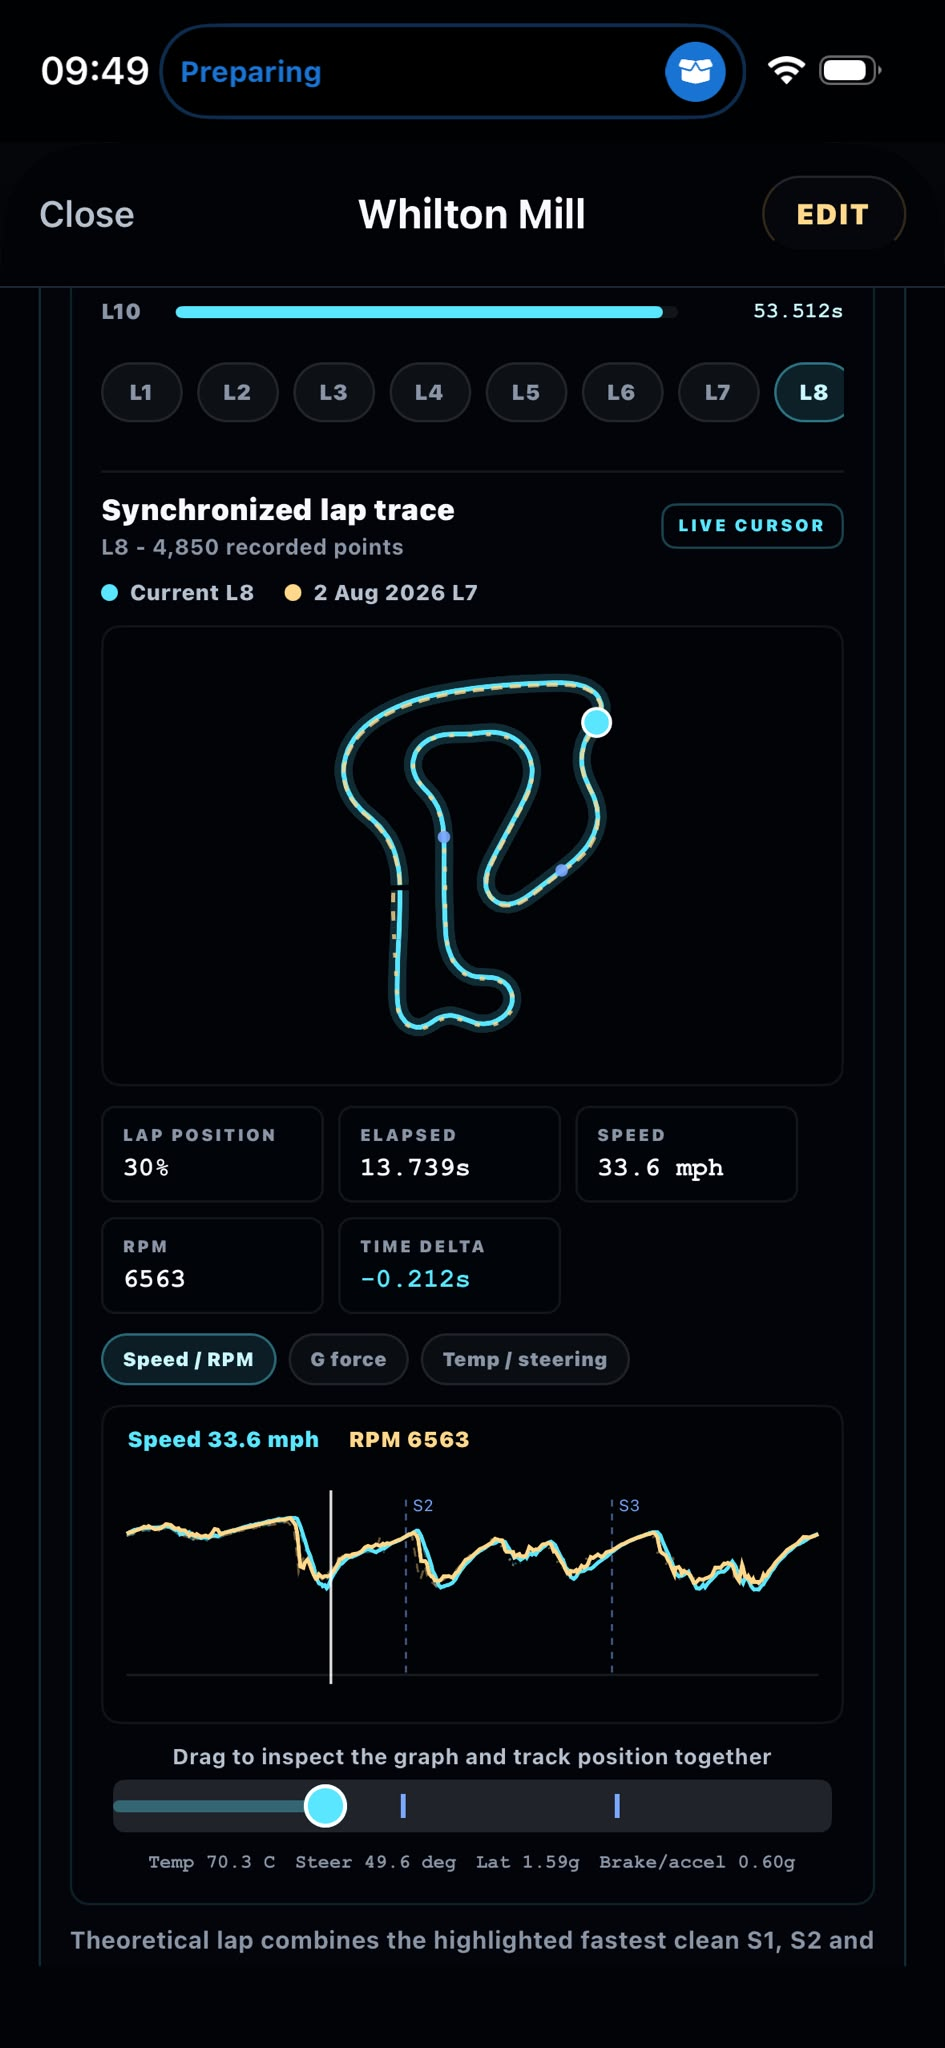
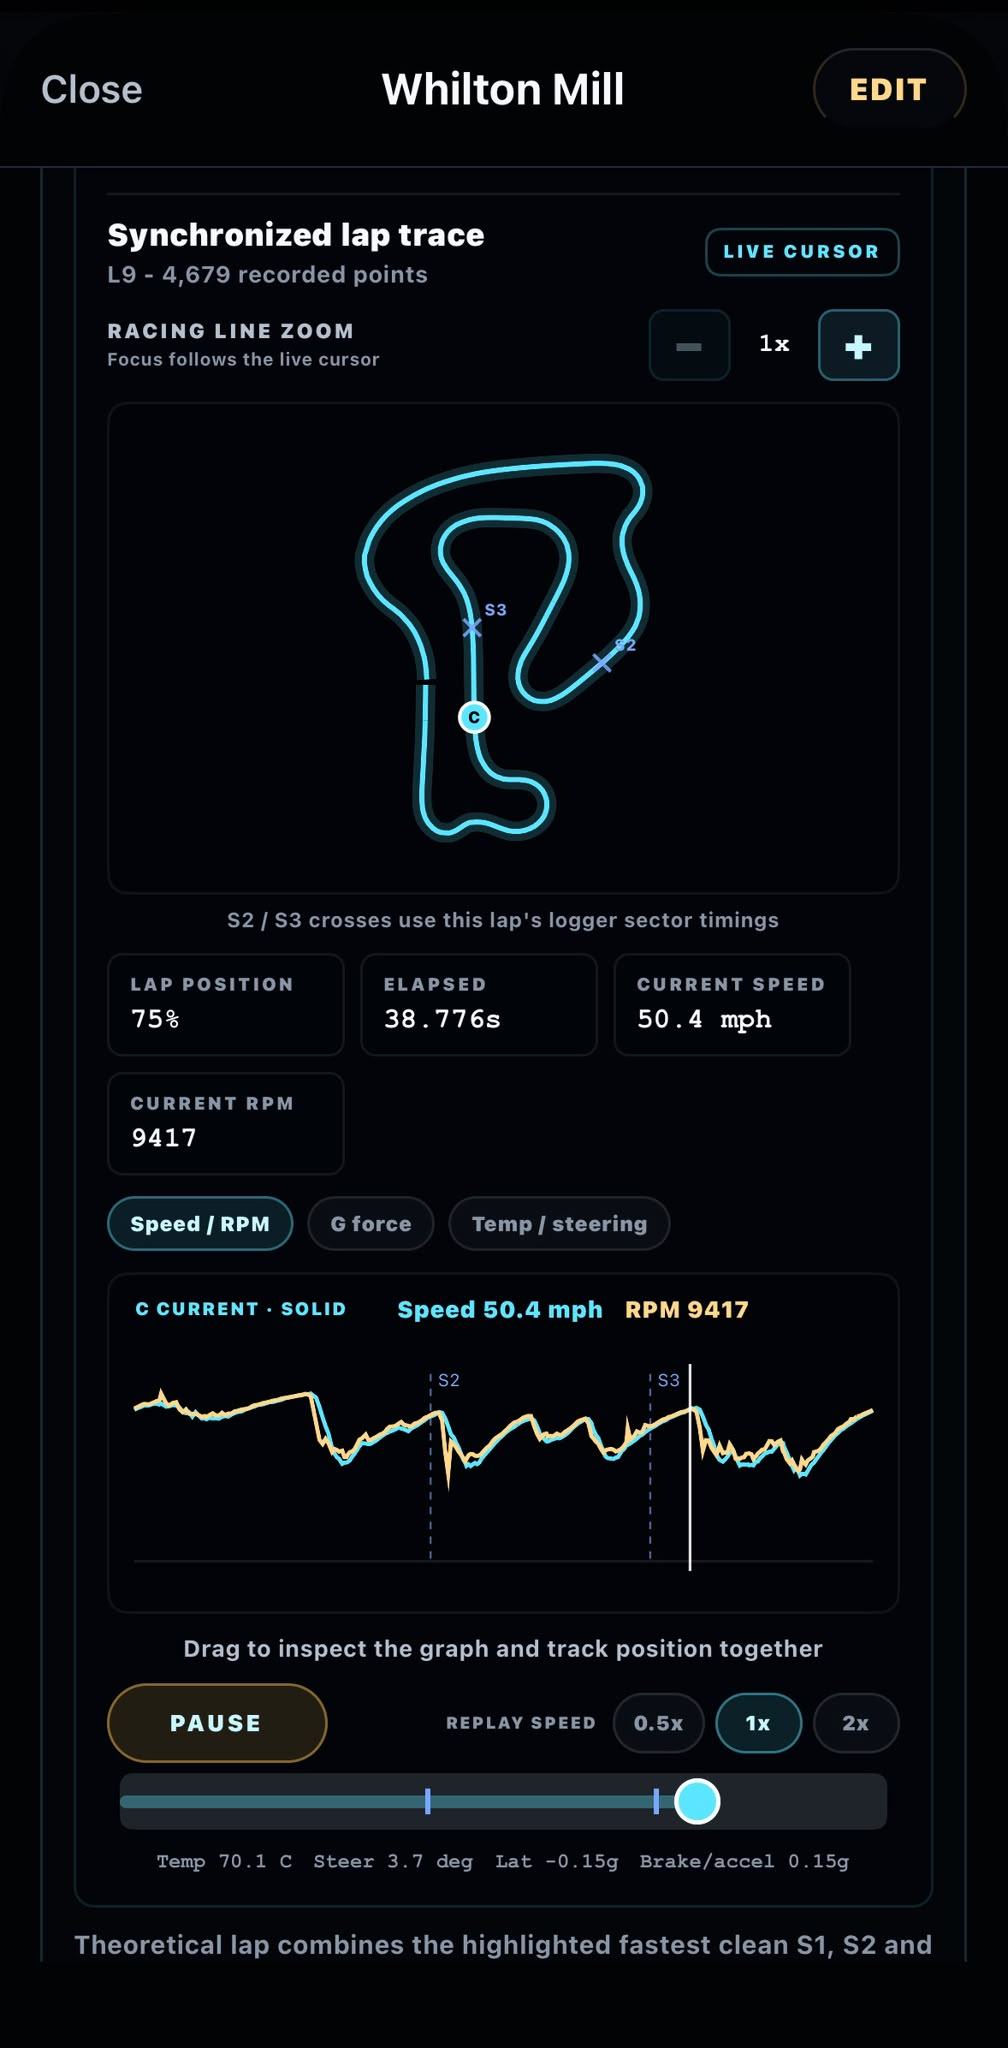
Refresh telemetry and replay previews

diff --git a/styles.css b/styles.css
@@ -311,6 +311,7 @@ h3 {
 
 .content-band,
 .analysis-band,
+.review-band,
 .workflow-band,
 .plain-section,
 .policy-page,
@@ -460,6 +461,85 @@ h3 {
   text-transform: uppercase;
 }
 
+.review-band {
+  display: grid;
+  grid-template-columns: minmax(260px, 0.75fr) minmax(0, 1.25fr);
+  gap: 54px;
+  align-items: center;
+  padding: 94px 0;
+}
+
+.review-copy {
+  max-width: 470px;
+}
+
+.review-copy > p:not(.eyebrow) {
+  color: var(--muted);
+  font-weight: 650;
+}
+
+.review-points {
+  display: flex;
+  flex-wrap: wrap;
+  gap: 10px;
+  margin-top: 28px;
+}
+
+.review-points span {
+  padding: 8px 12px;
+  border: 1px solid var(--line-strong);
+  border-radius: 999px;
+  background: rgba(7, 16, 24, 0.82);
+  color: var(--text);
+  font-size: 0.78rem;
+  font-weight: 850;
+}
+
+.review-screens {
+  display: grid;
+  grid-template-columns: repeat(2, minmax(0, 1fr));
+  gap: 22px;
+  align-items: start;
+}
+
+.review-screen {
+  min-width: 0;
+  margin: 0;
+  overflow: hidden;
+  border: 1px solid rgba(180, 202, 225, 0.28);
+  border-radius: 24px;
+  background: #02050b;
+  padding: 7px;
+  box-shadow: 0 24px 70px rgba(0, 0, 0, 0.42);
+}
+
+.review-screen-offset {
+  margin-top: 68px;
+}
+
+.review-screen img {
+  width: 100%;
+  display: block;
+  aspect-ratio: 9 / 15;
+  border-radius: 18px 18px 7px 7px;
+  object-fit: cover;
+  object-position: top center;
+}
+
+.review-screen-replay img {
+  aspect-ratio: 3 / 4;
+}
+
+.review-screen figcaption {
+  padding: 13px 8px 7px;
+  color: var(--muted);
+  font-size: 0.72rem;
+  font-weight: 850;
+  letter-spacing: 0.11em;
+  text-align: center;
+  text-transform: uppercase;
+}
+
 .workflow-grid {
   display: grid;
   grid-template-columns: repeat(3, minmax(0, 1fr));
@@ -596,6 +676,7 @@ ul {
 @media (max-width: 980px) {
   .hero,
   .analysis-band,
+  .review-band,
   .plain-section {
     grid-template-columns: 1fr;
   }
@@ -614,6 +695,19 @@ ul {
   .analysis-band {
     gap: 42px;
     padding: 64px 44px;
+  }
+
+  .review-band {
+    gap: 44px;
+  }
+
+  .review-copy {
+    max-width: 720px;
+  }
+
+  .review-screens {
+    width: min(720px, 100%);
+    justify-self: center;
   }
 
   .feature-grid {
@@ -692,6 +786,7 @@ ul {
   }
 
   .content-band,
+  .review-band,
   .workflow-band,
   .screens-band,
   .plain-section {
@@ -704,6 +799,30 @@ ul {
     border-right: 0;
     border-left: 0;
     border-radius: 0;
+  }
+
+  .review-screens {
+    width: min(320px, 100%);
+    grid-template-columns: 1fr;
+    gap: 18px;
+  }
+
+  .review-screen {
+    border-radius: 17px;
+    padding: 5px;
+  }
+
+  .review-screen-offset {
+    margin-top: 0;
+  }
+
+  .review-screen img {
+    border-radius: 12px 12px 5px 5px;
+  }
+
+  .review-screen figcaption {
+    font-size: 0.62rem;
+    letter-spacing: 0.08em;
   }
 
   .feature-grid,

diff --git a/index.html b/index.html
@@ -136,6 +136,40 @@
         </figure>
       </section>
 
+      <section class="review-band" aria-labelledby="review-title">
+        <div class="review-copy">
+          <p class="eyebrow">The whole session, kept together</p>
+          <h2 id="review-title">Replay the evidence. Save the lesson.</h2>
+          <p>
+            Watch onboard footage aligned with lap timing, speed, RPM and track position,
+            then save the setup observations and photos that explain what the numbers cannot.
+          </p>
+          <div class="review-points" aria-label="Session review highlights">
+            <span>Synchronized onboard replay</span>
+            <span>Live track-position overlay</span>
+            <span>Multiple notes and photos</span>
+          </div>
+        </div>
+        <div class="review-screens" aria-label="RaceMetric session review previews">
+          <figure class="review-screen review-screen-replay">
+            <img
+              src="assets/screenshots/onboard-session-replay.png"
+              alt="RaceMetric onboard session replay showing video, lap time, track position, speed, RPM and best-lap delta"
+              loading="lazy"
+            />
+            <figcaption>Onboard video + live data</figcaption>
+          </figure>
+          <figure class="review-screen review-screen-offset">
+            <img
+              src="assets/screenshots/session-notebook.png"
+              alt="RaceMetric session notebook for adding driver feedback, setup notes and an optional photo"
+              loading="lazy"
+            />
+            <figcaption>Session notes + photos</figcaption>
+          </figure>
+        </div>
+      </section>
+
       <section class="workflow-band" aria-labelledby="workflow-title">
         <div class="section-heading">
           <p class="eyebrow">A repeatable race-weekend workflow</p>
